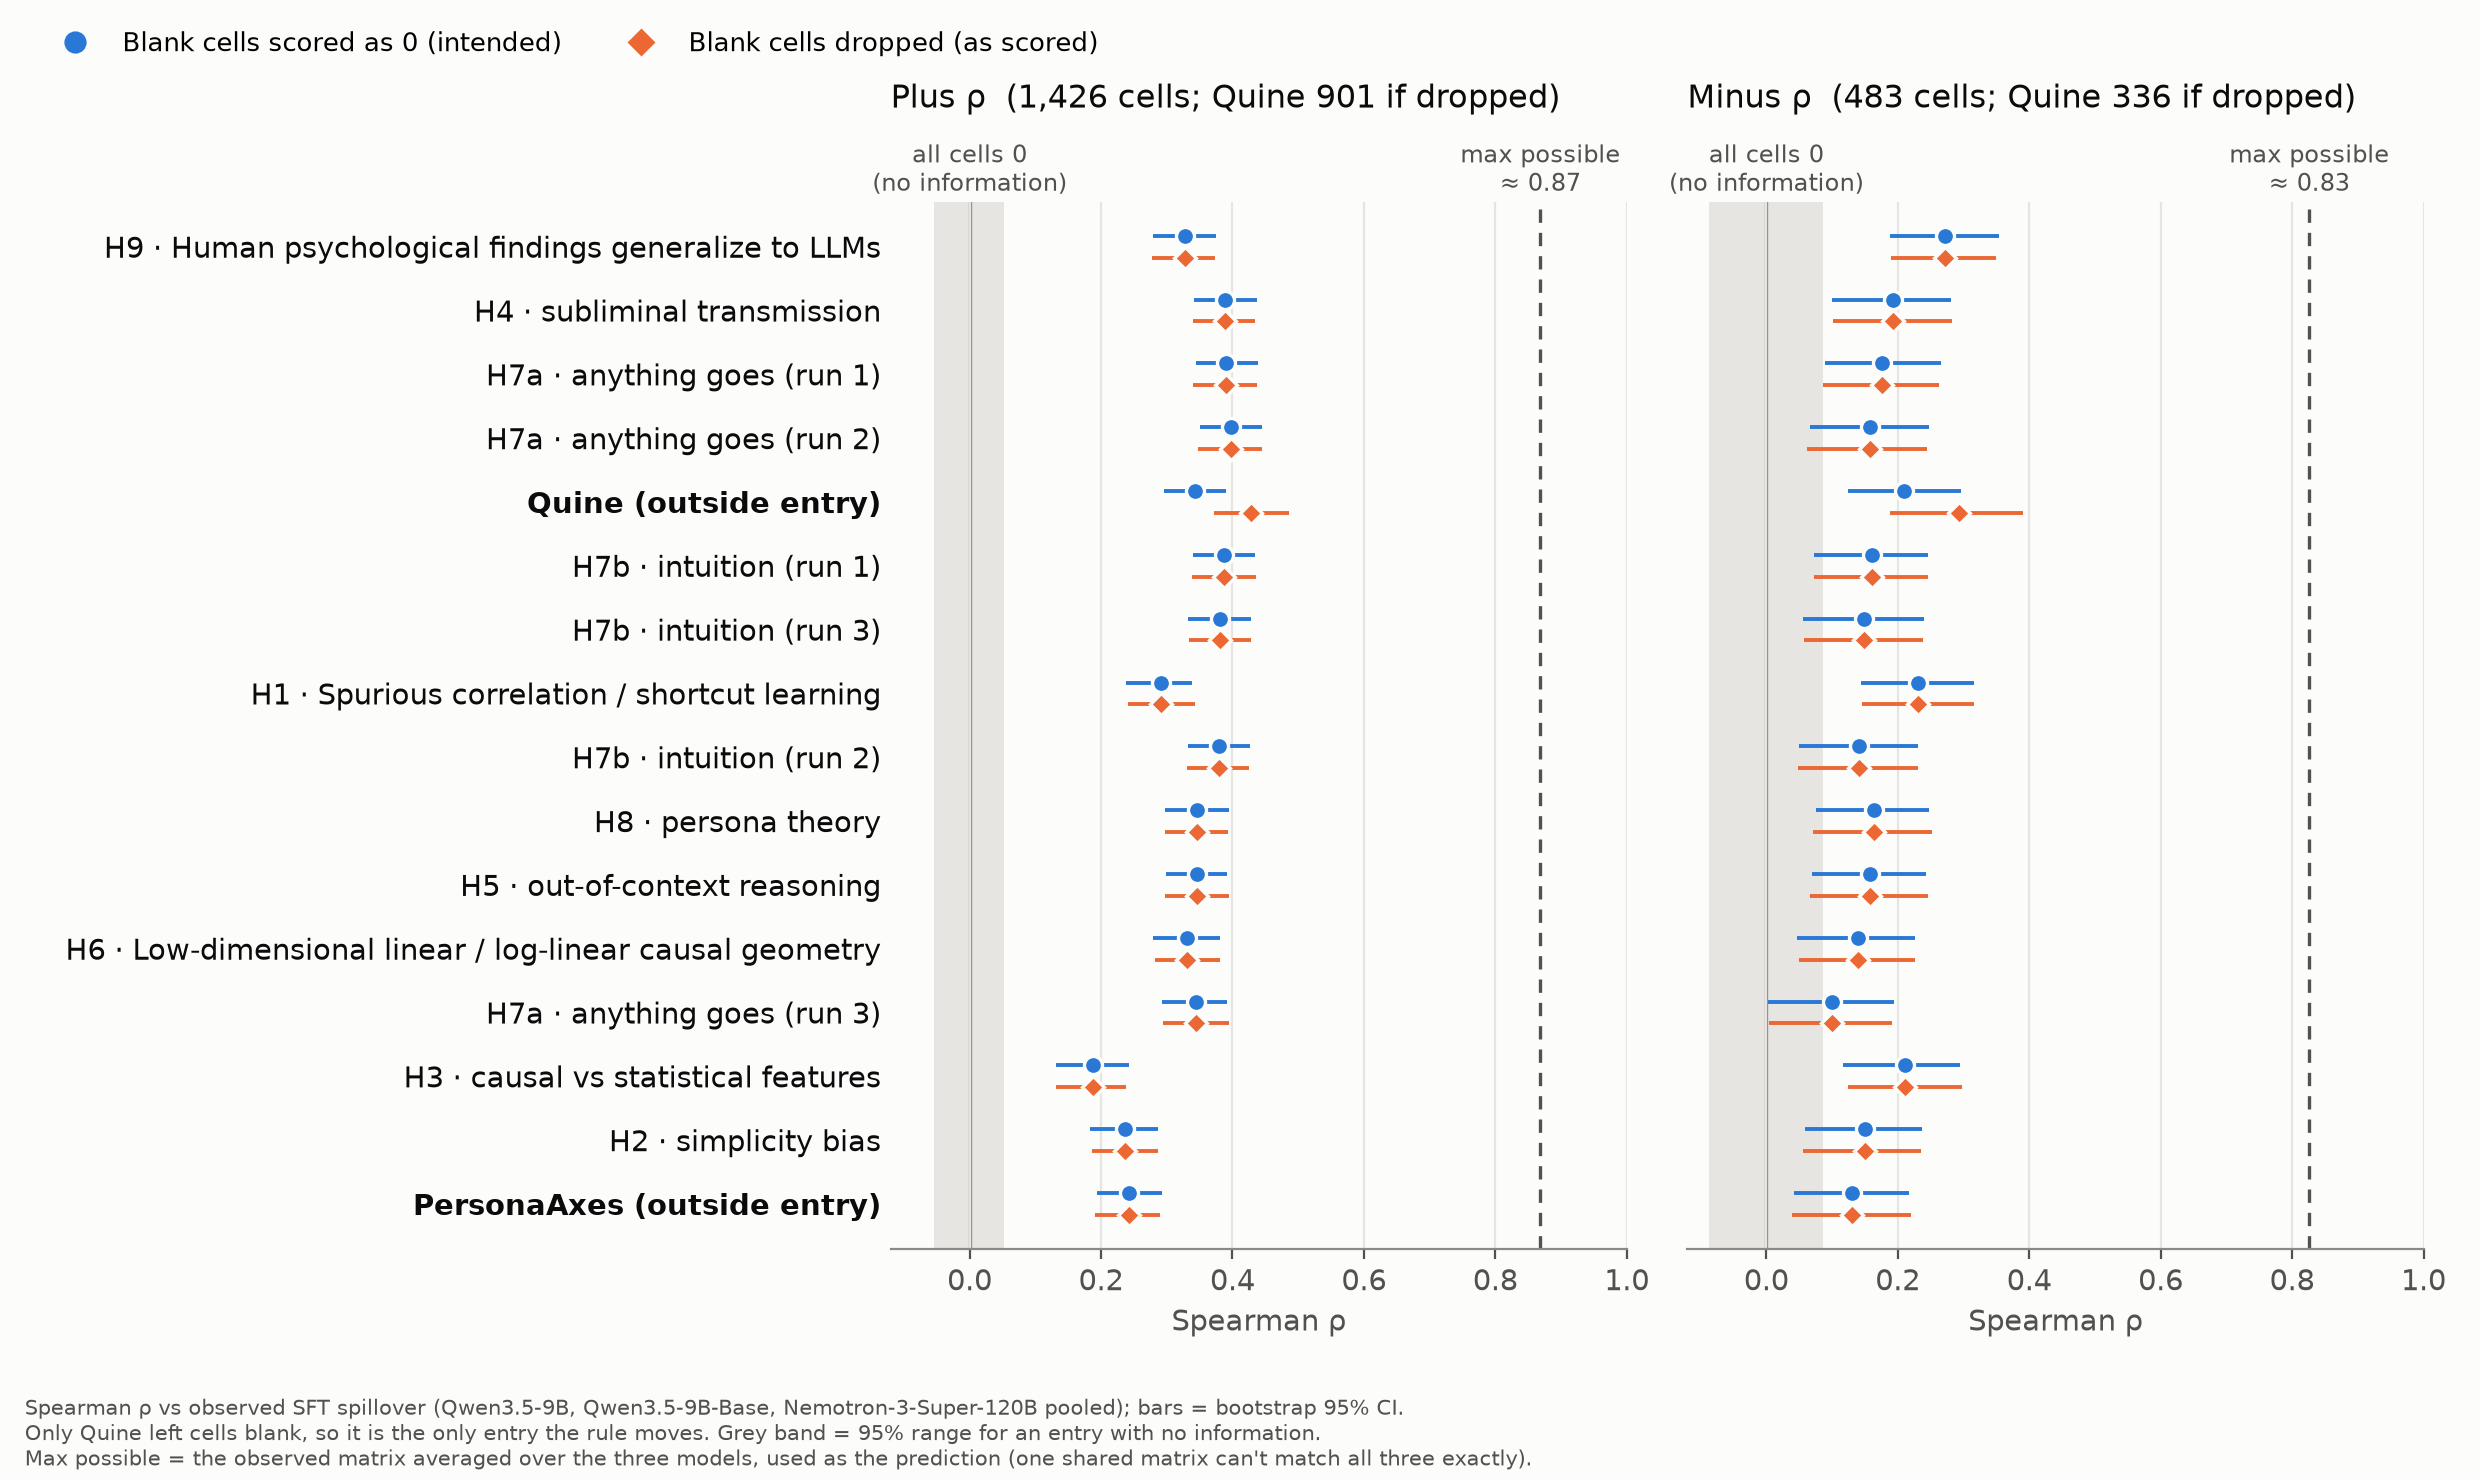
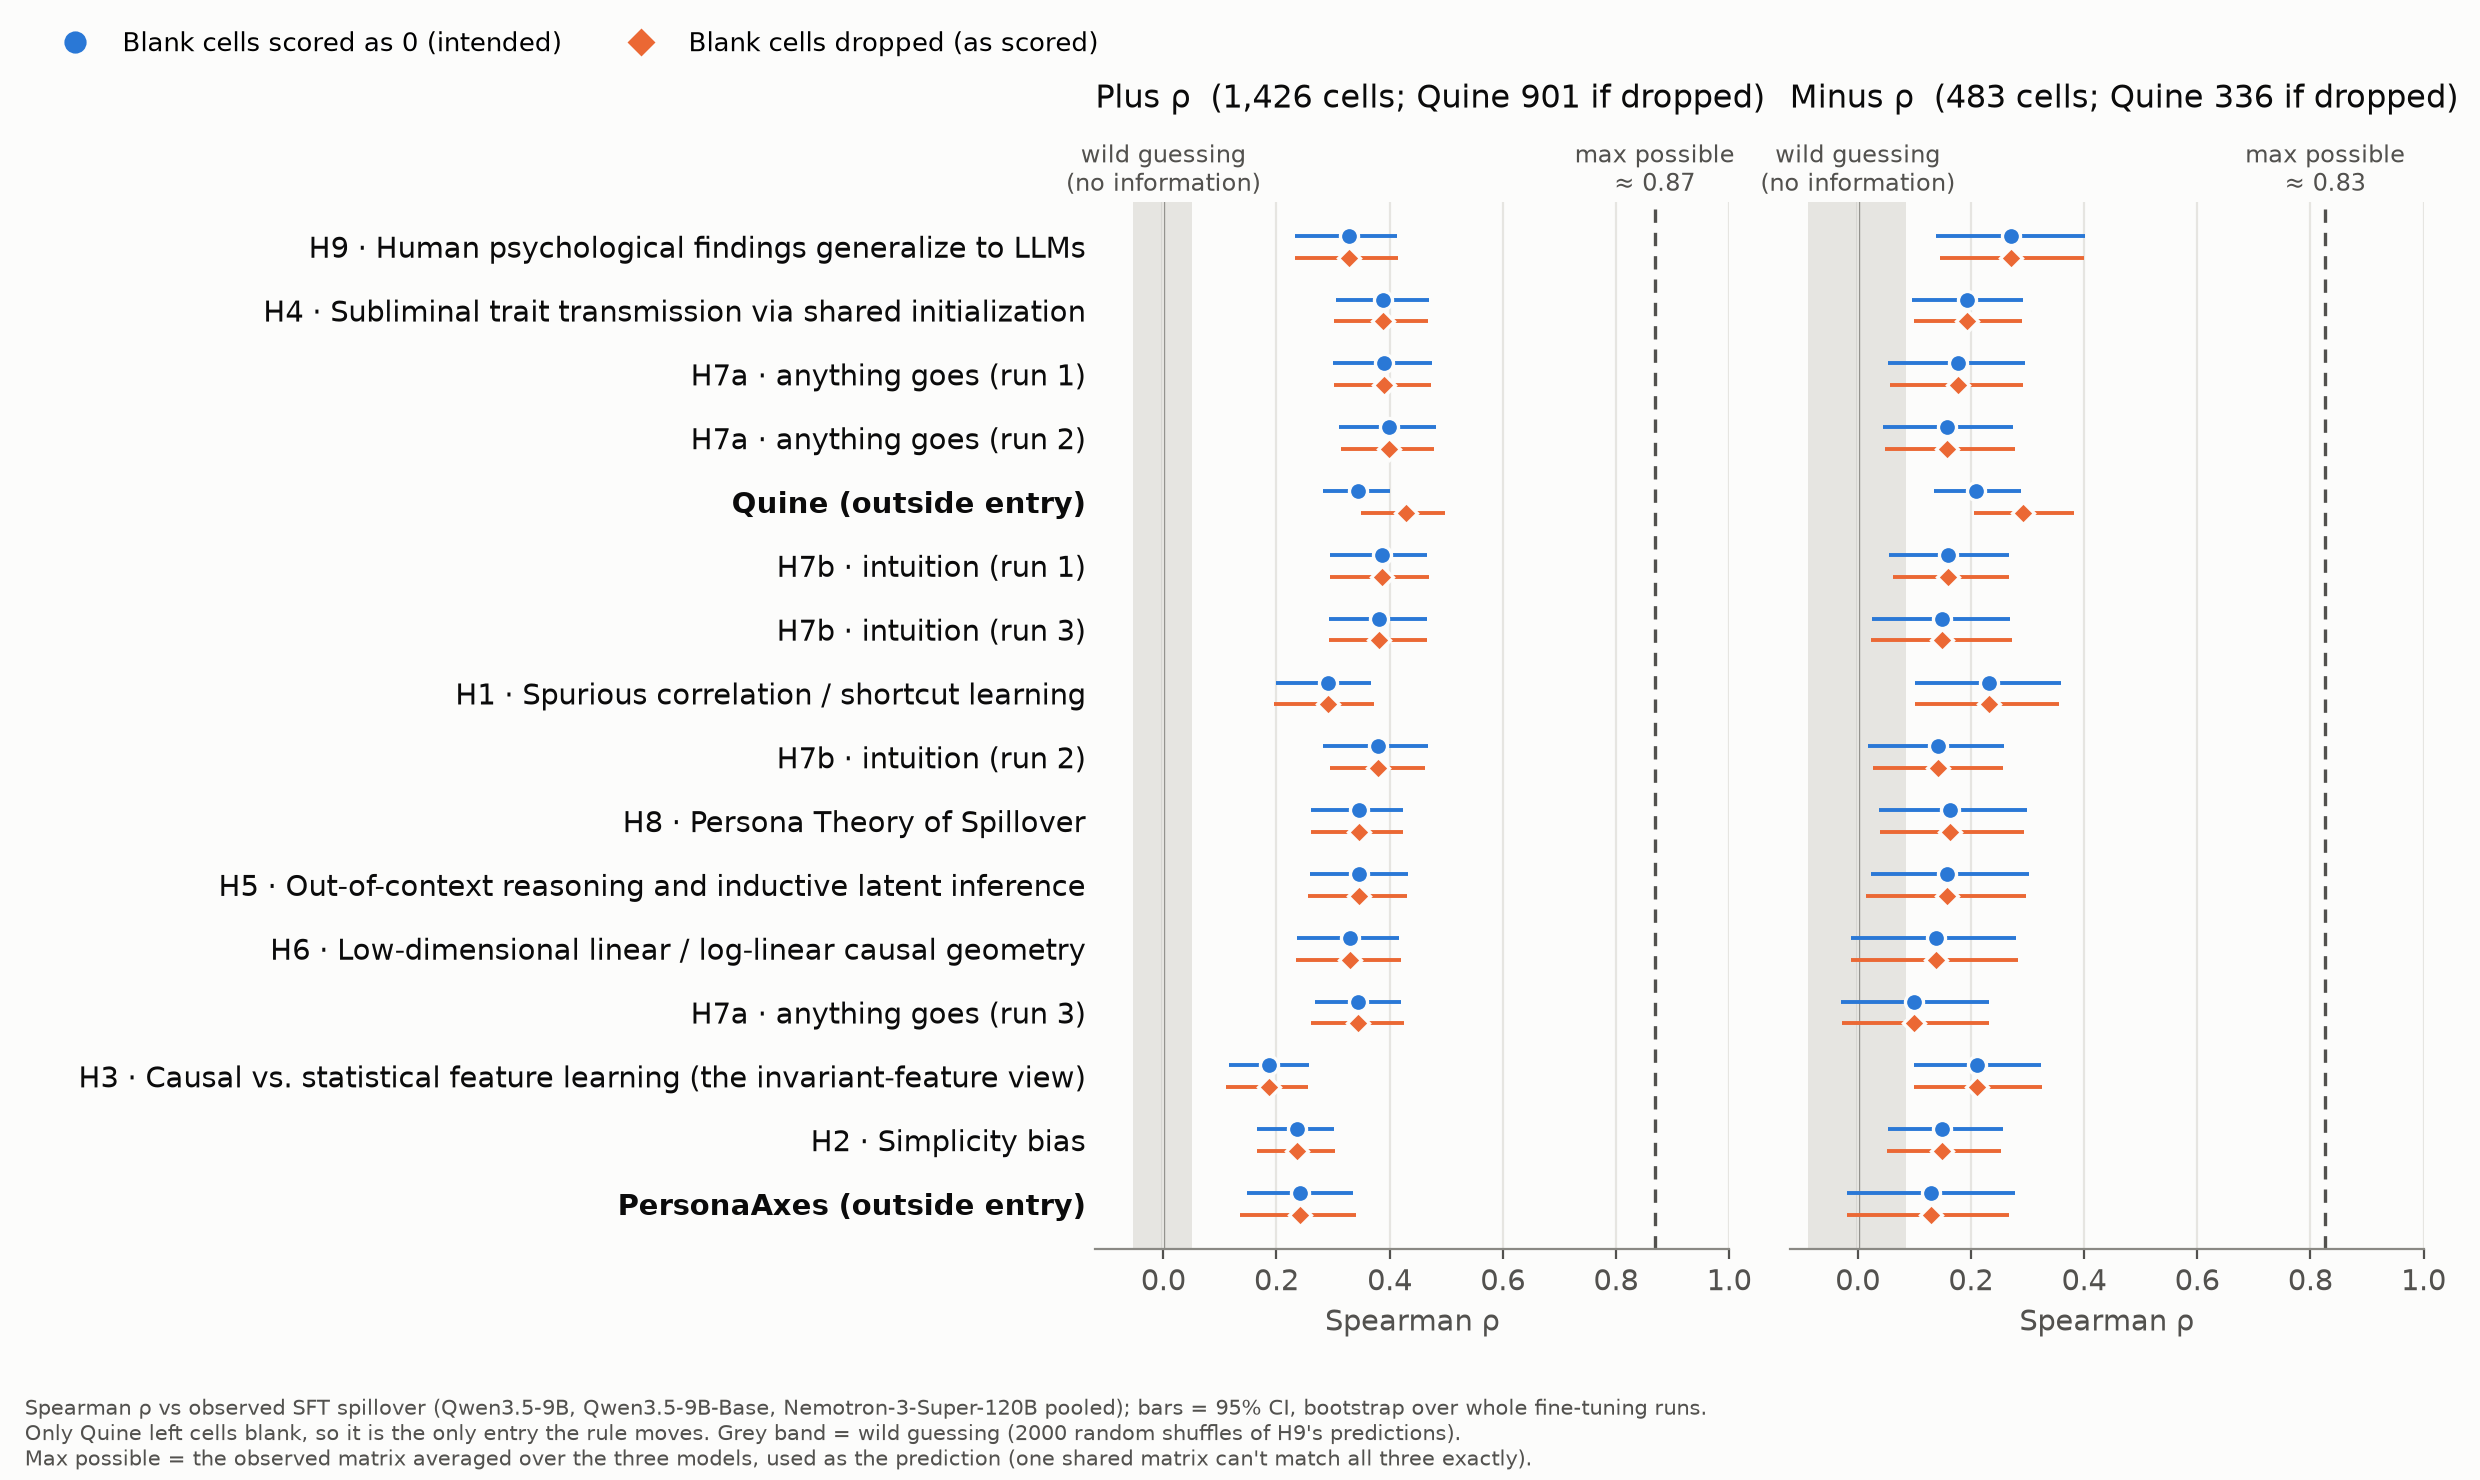
results_followup: cluster bootstrap over fine-tuning runs, site titles for H2-H8, wild-guessing band wording
Cells from one fine-tuning run are correlated, so the cell-level bootstrap was
~1.7x too narrow. CIs and paired differences now resample whole runs.

Claude-Session: https://claude.ai/code/session_019kNKu1UE5tTeziBYxsrNRo

diff --git a/results_followup/score_both_rules.py b/results_followup/score_both_rules.py
@@ -26,13 +26,14 @@ MODELS = ["qwen35", "qwen35-base", "nemotron35"]
 LABELS = {
     "Hquine_nomech": "Quine (outside entry)",
     "HPersonaAxes": "PersonaAxes (outside entry)",
-    "H1": "H1 · Spurious correlation / shortcut learning", "H2": "H2 · simplicity bias",
-    "H3": "H3 · causal vs statistical features", "H4": "H4 · subliminal transmission",
-    "H5": "H5 · out-of-context reasoning", "H6": "H6 · Low-dimensional linear / log-linear causal geometry",
+    "H1": "H1 · Spurious correlation / shortcut learning", "H2": "H2 · Simplicity bias",
+    "H3": "H3 · Causal vs. statistical feature learning (the invariant-feature view)",
+    "H4": "H4 · Subliminal trait transmission via shared initialization",
+    "H5": "H5 · Out-of-context reasoning and inductive latent inference", "H6": "H6 · Low-dimensional linear / log-linear causal geometry",
     "H7a_r1": "H7a · anything goes (run 1)", "H7a_r2": "H7a · anything goes (run 2)",
     "H7a_r3": "H7a · anything goes (run 3)", "H7b_r1": "H7b · intuition (run 1)",
     "H7b_r2": "H7b · intuition (run 2)", "H7b_r3": "H7b · intuition (run 3)",
-    "H8": "H8 · persona theory", "H9": "H9 · Human psychological findings generalize to LLMs",
+    "H8": "H8 · Persona Theory of Spillover", "H9": "H9 · Human psychological findings generalize to LLMs",
 }
 rd = lambda s: pd.read_csv(io.StringIO(s), index_col=0)
 
@@ -56,7 +57,9 @@ def observed(model, pole):
 
 
 def cells(pred, pole):
-    """(prediction, observed) for every scored cell, pooled over models."""
+    """(prediction, observed, run id) for every scored cell, pooled over models.
+
+    run id = one fine-tuning run (model × trained pole), the unit the bootstrap resamples."""
     P, rows = pred[pole], []
     for m in MODELS:
         o = observed(m, pole)
@@ -70,13 +73,23 @@ def cells(pred, pole):
                 if c == src or pd.isna(o.at[r, c]):
                     continue
                 v = P.at[r, c] if (r in P.index and c in P.columns) else np.nan
-                rows.append((v, o.at[r, c]))
+                rows.append((v, o.at[r, c], MODELS.index(m) * 1000 + list(o.index).index(r)))
     return np.array(rows, dtype=float)
 
 
+def runs(pv):
+    """Cell indices grouped by fine-tuning run."""
+    return [np.flatnonzero(pv[:, 2] == g) for g in np.unique(pv[:, 2])]
+
+
+def resample(groups):
+    """One cluster-bootstrap draw: whole runs with replacement, so correlated cells move together."""
+    return np.concatenate([groups[j] for j in rng.integers(0, len(groups), len(groups))])
+
+
 def boot(pv):
-    idx = rng.integers(0, len(pv), (B, len(pv)))
-    return np.array([spearmanr(pv[i, 0], pv[i, 1])[0] for i in idx])
+    g = runs(pv)
+    return np.array([spearmanr(pv[i, 0], pv[i, 1])[0] for i in (resample(g) for _ in range(B))])
 
 
 def score(pairs_by_pole):
@@ -96,7 +109,7 @@ rows = []
 for name, pred in load_entries().items():
     raw = {pole: cells(pred, pole) for pole in ["plus", "minus"]}
     dropped = {p: v[~np.isnan(v[:, 0])] for p, v in raw.items()}
-    zero = {p: np.column_stack([np.nan_to_num(v[:, 0]), v[:, 1]]) for p, v in raw.items()}
+    zero = {p: np.column_stack([np.nan_to_num(v[:, 0]), v[:, 1], v[:, 2]]) for p, v in raw.items()}
     for rule, pv in [("dropped", dropped), ("zero", zero)]:
         rows.append({"entry": name, "label": LABELS.get(name, name), "rule": rule, **score(pv)})
 

diff --git a/results_followup/plot_both_rules.py b/results_followup/plot_both_rules.py
@@ -53,7 +53,7 @@ def panel(ax, col, title, labels=True):
         ax.spines[s].set_visible(False)
     ax.set_title(title, loc="left", fontsize=11.5, color=INK, pad=34)
     top = len(order) - 0.25
-    ax.text(0, top, "all cells 0\n(no information)", fontsize=8.5, color=INK2, va="bottom", ha="center", clip_on=False)
+    ax.text(0, top, "wild guessing\n(no information)", fontsize=8.5, color=INK2, va="bottom", ha="center", clip_on=False)
     ax.text(ceil[col], top, f"max possible\n≈ {ceil[col]:.2f}", fontsize=8.5, color=INK2, va="bottom", ha="center", clip_on=False)
 
 
@@ -63,12 +63,12 @@ def legend(fig):
     fig.legend(handles=h, loc="upper left", bbox_to_anchor=(0.01, 0.995), ncol=2, frameon=False, fontsize=9.5)
 
 
-NOTE = ("Spearman ρ vs observed SFT spillover (Qwen3.5-9B, Qwen3.5-9B-Base, Nemotron-3-Super-120B pooled); bars = bootstrap 95% CI.\n"
-        "Only Quine left cells blank, so it is the only entry the rule moves. Grey band = 95% range for an entry with no information.\n"
+NOTE = ("Spearman ρ vs observed SFT spillover (Qwen3.5-9B, Qwen3.5-9B-Base, Nemotron-3-Super-120B pooled); bars = 95% CI, bootstrap over whole fine-tuning runs.\n"
+        "Only Quine left cells blank, so it is the only entry the rule moves. Grey band = wild guessing (2000 random shuffles of H9's predictions).\n"
         "Max possible = the observed matrix averaged over the three models, used as the prediction (one shared matrix can't match all three exactly).")
 
 fig, ax = plt.subplots(figsize=(8.6, 7.4), facecolor=SURFACE)
-panel(ax, "score", "Headline score (mean of plus and minus ρ)")
+panel(ax, "score", "Headline score\n(mean of plus and minus ρ)")
 ax.set_xlabel("Spearman ρ")
 legend(fig)
 fig.text(0.01, 0.005, NOTE, fontsize=7.6, color=INK2, va="bottom")

diff --git a/results_followup/paired_bootstrap.py b/results_followup/paired_bootstrap.py
@@ -1,5 +1,5 @@
 #!/usr/bin/env python3
-"""Paired bootstrap (blanks = 0): resample the same cells for both entries, compare headline scores."""
+"""Paired cluster bootstrap (blanks = 0): resample the same fine-tuning runs for both entries, compare headline scores."""
 import numpy as np
 from scipy.stats import rankdata
 exec(open("score_both_rules.py").read().split("rows = []")[0])
@@ -9,7 +9,8 @@ O = {p: cells(E["H9"], p)[:, 1] for p in ["plus", "minus"]}
 rng = np.random.default_rng(1)
 def sp(a, b):
     return np.corrcoef(rankdata(a), rankdata(b))[0, 1]
-idx = {p: rng.integers(0, len(O[p]), (B, len(O[p]))) for p in O}
+G = {p: runs(cells(E["H9"], p)) for p in O}
+idx = {p: [resample(G[p]) for _ in range(B)] for p in O}  # whole fine-tuning runs, same draws for both entries
 def reps(h):
     return np.mean([[sp(Z[h][p][i], O[p][i]) for i in idx[p]] for p in O], axis=0)
 R = {h: reps(h) for h in Z}

diff --git a/results_followup/leaderboard.md b/results_followup/leaderboard.md
@@ -1,20 +1,20 @@
 | # (blanks = 0) | Entry | Score, blanks = 0 | Plus ρ | Minus ρ | # (blanks dropped) | Score, blanks dropped |
 |---|---|---|---|---|---|---|
-| 1 | H9 · Human psychological findings generalize to LLMs | 0.30 [0.25, 0.35] | 0.33 | 0.27 | 2 | 0.30 [0.25, 0.35] |
-| 2 | H4 · subliminal transmission | 0.29 [0.24, 0.34] | 0.39 | 0.19 | 3 | 0.29 [0.24, 0.34] |
-| 3 | H7a · anything goes (run 1) | 0.28 [0.23, 0.33] | 0.39 | 0.18 | 4 | 0.28 [0.23, 0.33] |
-| 4 | H7a · anything goes (run 2) | 0.28 [0.23, 0.33] | 0.40 | 0.16 | 5 | 0.28 [0.23, 0.33] |
+| 1 | H9 · Human psychological findings generalize to LLMs | 0.30 [0.22, 0.38] | 0.33 | 0.27 | 2 | 0.30 [0.22, 0.38] |
+| 2 | H4 · Subliminal trait transmission via shared initialization | 0.29 [0.23, 0.35] | 0.39 | 0.19 | 3 | 0.29 [0.23, 0.35] |
+| 3 | H7a · anything goes (run 1) | 0.28 [0.21, 0.36] | 0.39 | 0.18 | 4 | 0.28 [0.21, 0.35] |
+| 4 | H7a · anything goes (run 2) | 0.28 [0.21, 0.35] | 0.40 | 0.16 | 5 | 0.28 [0.21, 0.35] |
 | 5 | **Quine (outside entry)** | 0.28 [0.23, 0.32] | 0.34 | 0.21 | 1 | 0.36 [0.30, 0.42] |
-| 6 | H7b · intuition (run 1) | 0.27 [0.22, 0.32] | 0.39 | 0.16 | 6 | 0.27 [0.22, 0.32] |
-| 7 | H7b · intuition (run 3) | 0.26 [0.21, 0.32] | 0.38 | 0.15 | 7 | 0.26 [0.21, 0.32] |
-| 8 | H1 · Spurious correlation / shortcut learning | 0.26 [0.21, 0.31] | 0.29 | 0.23 | 8 | 0.26 [0.21, 0.31] |
-| 9 | H7b · intuition (run 2) | 0.26 [0.21, 0.31] | 0.38 | 0.14 | 9 | 0.26 [0.21, 0.31] |
-| 10 | H8 · persona theory | 0.25 [0.20, 0.30] | 0.35 | 0.16 | 10 | 0.25 [0.20, 0.31] |
-| 11 | H5 · out-of-context reasoning | 0.25 [0.20, 0.30] | 0.35 | 0.16 | 11 | 0.25 [0.20, 0.30] |
-| 12 | H6 · Low-dimensional linear / log-linear causal geometry | 0.23 [0.18, 0.29] | 0.33 | 0.14 | 12 | 0.23 [0.18, 0.28] |
-| 13 | H7a · anything goes (run 3) | 0.22 [0.17, 0.27] | 0.34 | 0.10 | 13 | 0.22 [0.17, 0.28] |
-| 14 | H3 · causal vs statistical features | 0.20 [0.14, 0.25] | 0.19 | 0.21 | 14 | 0.20 [0.15, 0.25] |
-| 15 | H2 · simplicity bias | 0.19 [0.14, 0.24] | 0.24 | 0.15 | 15 | 0.19 [0.14, 0.24] |
-| 16 | **PersonaAxes (outside entry)** | 0.19 [0.14, 0.24] | 0.24 | 0.13 | 16 | 0.19 [0.14, 0.24] |
+| 6 | H7b · intuition (run 1) | 0.27 [0.21, 0.34] | 0.39 | 0.16 | 6 | 0.27 [0.21, 0.35] |
+| 7 | H7b · intuition (run 3) | 0.26 [0.19, 0.34] | 0.38 | 0.15 | 7 | 0.26 [0.19, 0.34] |
+| 8 | H1 · Spurious correlation / shortcut learning | 0.26 [0.19, 0.33] | 0.29 | 0.23 | 8 | 0.26 [0.18, 0.34] |
+| 9 | H7b · intuition (run 2) | 0.26 [0.18, 0.33] | 0.38 | 0.14 | 9 | 0.26 [0.19, 0.33] |
+| 10 | H8 · Persona Theory of Spillover | 0.25 [0.18, 0.33] | 0.35 | 0.16 | 10 | 0.25 [0.18, 0.33] |
+| 11 | H5 · Out-of-context reasoning and inductive latent inference | 0.25 [0.17, 0.33] | 0.35 | 0.16 | 11 | 0.25 [0.17, 0.33] |
+| 12 | H6 · Low-dimensional linear / log-linear causal geometry | 0.23 [0.15, 0.32] | 0.33 | 0.14 | 12 | 0.23 [0.14, 0.32] |
+| 13 | H7a · anything goes (run 3) | 0.22 [0.15, 0.30] | 0.34 | 0.10 | 13 | 0.22 [0.14, 0.30] |
+| 14 | H3 · Causal vs. statistical feature learning (the invariant-feature view) | 0.20 [0.14, 0.27] | 0.19 | 0.21 | 14 | 0.20 [0.13, 0.27] |
+| 15 | H2 · Simplicity bias | 0.19 [0.13, 0.25] | 0.24 | 0.15 | 15 | 0.19 [0.13, 0.25] |
+| 16 | **PersonaAxes (outside entry)** | 0.19 [0.10, 0.27] | 0.24 | 0.13 | 16 | 0.19 [0.09, 0.27] |
 
-Anchors: all cells 0 / no information = 0 (95% range for an uninformative entry ±0.05); max possible ≈ 0.85 (plus 0.87, minus 0.83): the observed matrix averaged over the three models, used as the prediction. Brackets: bootstrap 95% CI. Only Quine left cells blank; every other entry scores the same under both rules.
+Anchors: grey band = wild guessing, 2000 random shuffles of H9's predictions (95% range ±0.05); max possible ≈ 0.85 (plus 0.87, minus 0.83): the observed matrix averaged over the three models, used as the prediction. Brackets: 95% CI, bootstrap over whole fine-tuning runs. Only Quine left cells blank; every other entry scores the same under both rules.

diff --git a/results_followup/README.md b/results_followup/README.md
@@ -11,11 +11,11 @@ Only Quine left cells blank, so it's the only entry the rule moves.
 
 | File | What it is |
 |---|---|
-| `score_both_rules.py` | Rescores every entry under both rules with 2000-replicate bootstrap CIs. Also computes the no-information band (permutation) and the max possible score (the observed 3-model mean used as the prediction). Writes `scores.csv`. |
+| `score_both_rules.py` | Rescores every entry under both rules with 2000-replicate cluster-bootstrap CIs (whole fine-tuning runs resampled, since cells from one run are correlated). Also computes the no-information band (permutation) and the max possible score (the observed 3-model mean used as the prediction). Writes `scores.csv`. |
 | `plot_both_rules.py` | `fig_score.png` (headline score) and `fig_plus_minus.png` (plus and minus ρ), every entry under both rules |
 | `plot_persona.py` | `fig_persona.png`: H9 vs H8 vs PersonaAxes |
 | `personaaxes_dig.py` | Why PersonaAxes scored low: block-wise ρ, drift, its own falsifiers, biggest misses |
-| `paired_bootstrap.py` | Paired differences between entries (same resampled cells for both): Quine vs PersonaAxes, H9 vs Quine, H8 vs PersonaAxes, H9 vs PersonaAxes |
+| `paired_bootstrap.py` | Paired differences between entries (same resampled fine-tuning runs for both): Quine vs PersonaAxes, H9 vs Quine, H8 vs PersonaAxes, H9 vs PersonaAxes |
 | `leaderboard.md` | The leaderboard table from the post |
 | `H8_method.md` | How the H8 (persona theory) matrix was operationalized |
 | `entries/` | All 16 prediction matrices (H1–H9 runs plus the two outside entries, as submitted) |
